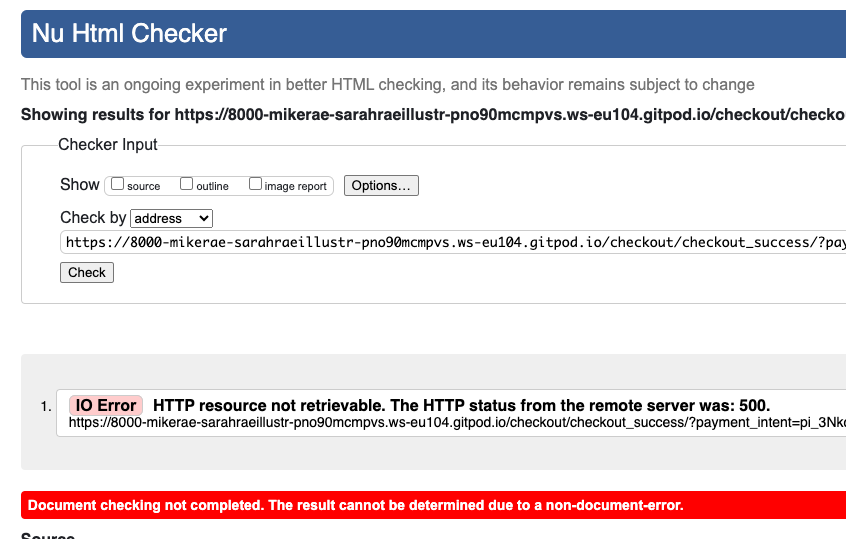
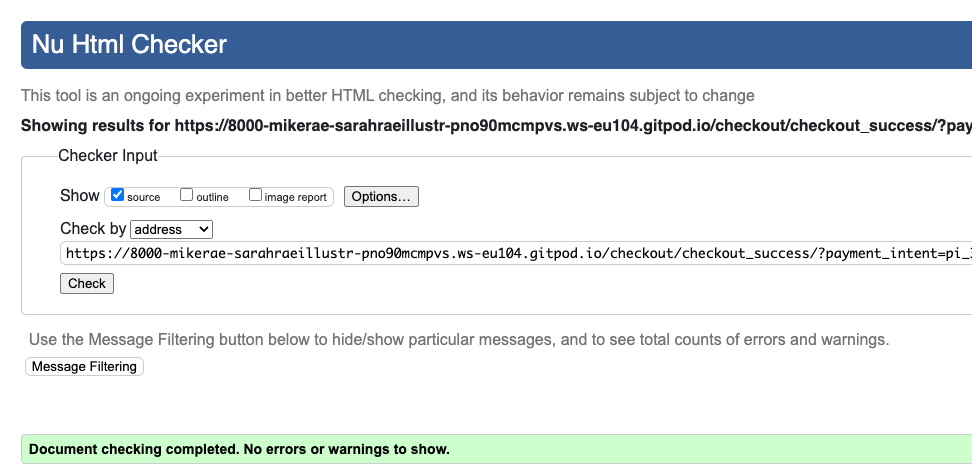
[#117 #103] checkout_success validation
Remove stray </div> in toast_success.html
	modified:   templates/includes/toasts/toast_success.html
Remove 'odd' character in checkout_success.html
    modified:   checkout/templates/checkout/checkout_success.html

Add checkout_success Html validation proof to readme
Add checkout_success css validation proof to readme
	modified:   README.md
	new file:   readme_files/validators/css/checkout-success.png
	modified:   readme_files/validators/html/checkout-success.png

diff --git a/checkout/templates/checkout/checkout_success.html b/checkout/templates/checkout/checkout_success.html
@@ -29,7 +29,7 @@ Order Total: £{{ order.order_total }},
                 <hr class="w-25">
                 <p class="text-sri-logo">Your order information is below. A confirmation email will be sent to
                     <strong>{{ order.email }}</strong>.
-                </p>›
+                </p>
             </div>
         </div>
     </div>

diff --git a/templates/includes/toasts/toast_success.html b/templates/includes/toasts/toast_success.html
@@ -57,4 +57,3 @@
     </div>
 
 </div>
-</div>

diff --git a/README.md b/README.md
@@ -1041,12 +1041,8 @@ Screenshots confirming HTML validation can be viewd here:
 - [shop](/readme_files/validators/html/shop.png)
 - [signup](/readme_files/validators/html/signup.png)
 ## CSS
-The [W3C CSS Validator](https://jigsaw.w3.org/css-validator/) was used to  validate the css code.
-Most of the css passed validation.
-### CSS Validation Failure
-The bug #117 caused a server error 500 which prevented the CSS validator to complete under the following conditions:
-- For anonymous user: Arriving at the checkout.html page
--  For logged-in user: Arriving at the checkout-success.html page.
+The [W3C CSS Validator](https://jigsaw.w3.org/css-validator/) was used to  validate the css code
+which passed without errors.
 
 CSS validation of these pages will be documented when bug #117 is fixed.
 ### Screenshots - CSS Validation
@@ -1055,6 +1051,7 @@ Screenshots confirming CSS validation can be viewed here:
 - [add-product](/readme_files/validators/css/add-product.png)
 - [cart](/readme_files/validators/css/cart.png)
 - [checkout](/readme_files/validators/css/checkout.png)
+- [checkout-success](/readme_files/validators/css/checkout-success.png)
 - [digital-artwork-detail](/readme_files/validators/css/index.png)
 - [gallery](/readme_files/validators/css/gallery.png)
 - [index](/readme_files/validators/css/index.png)
